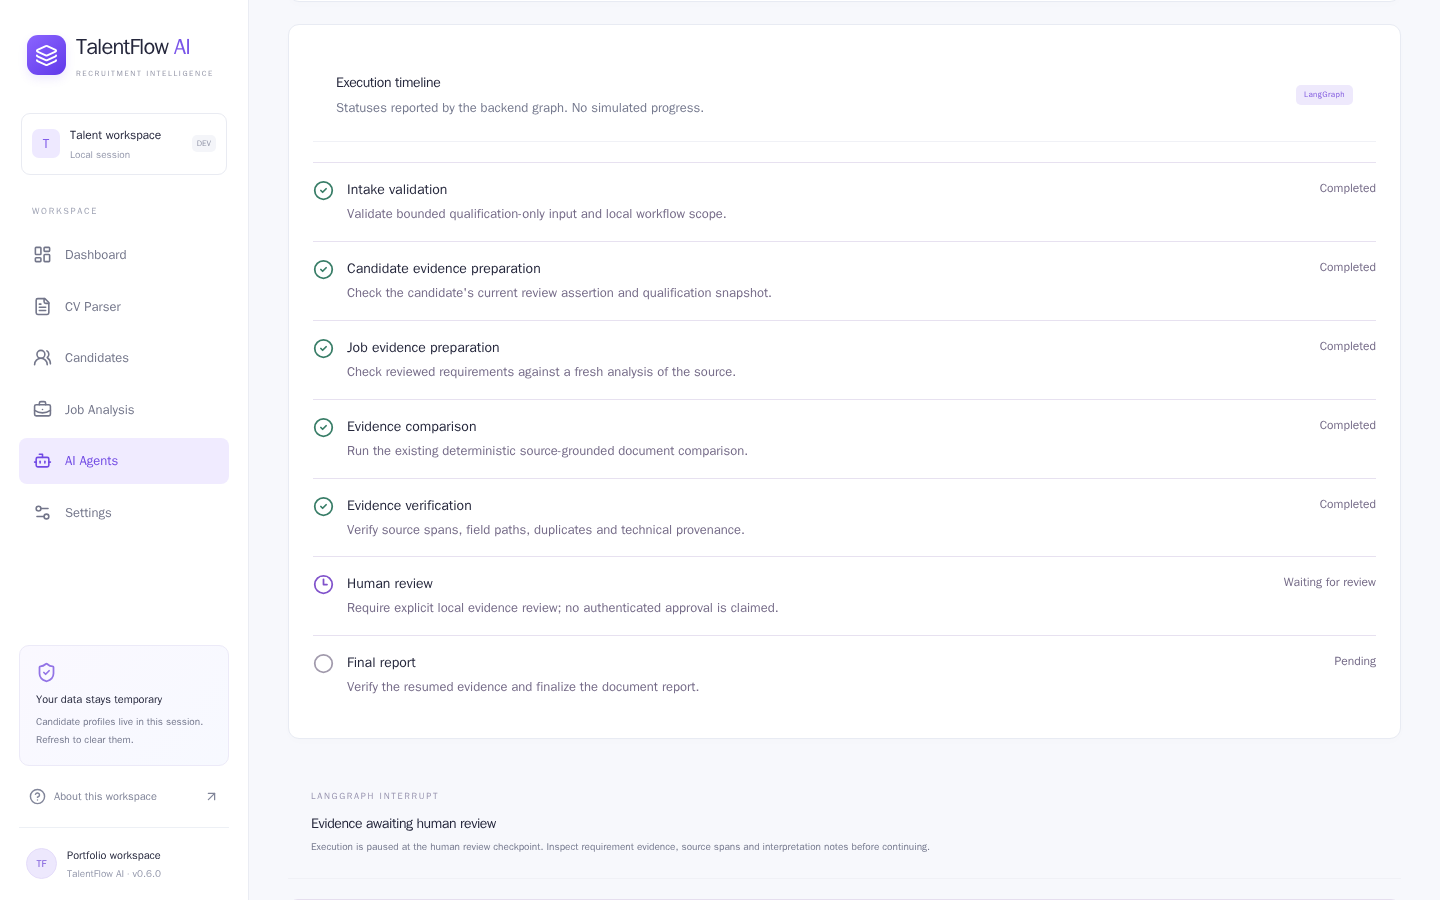
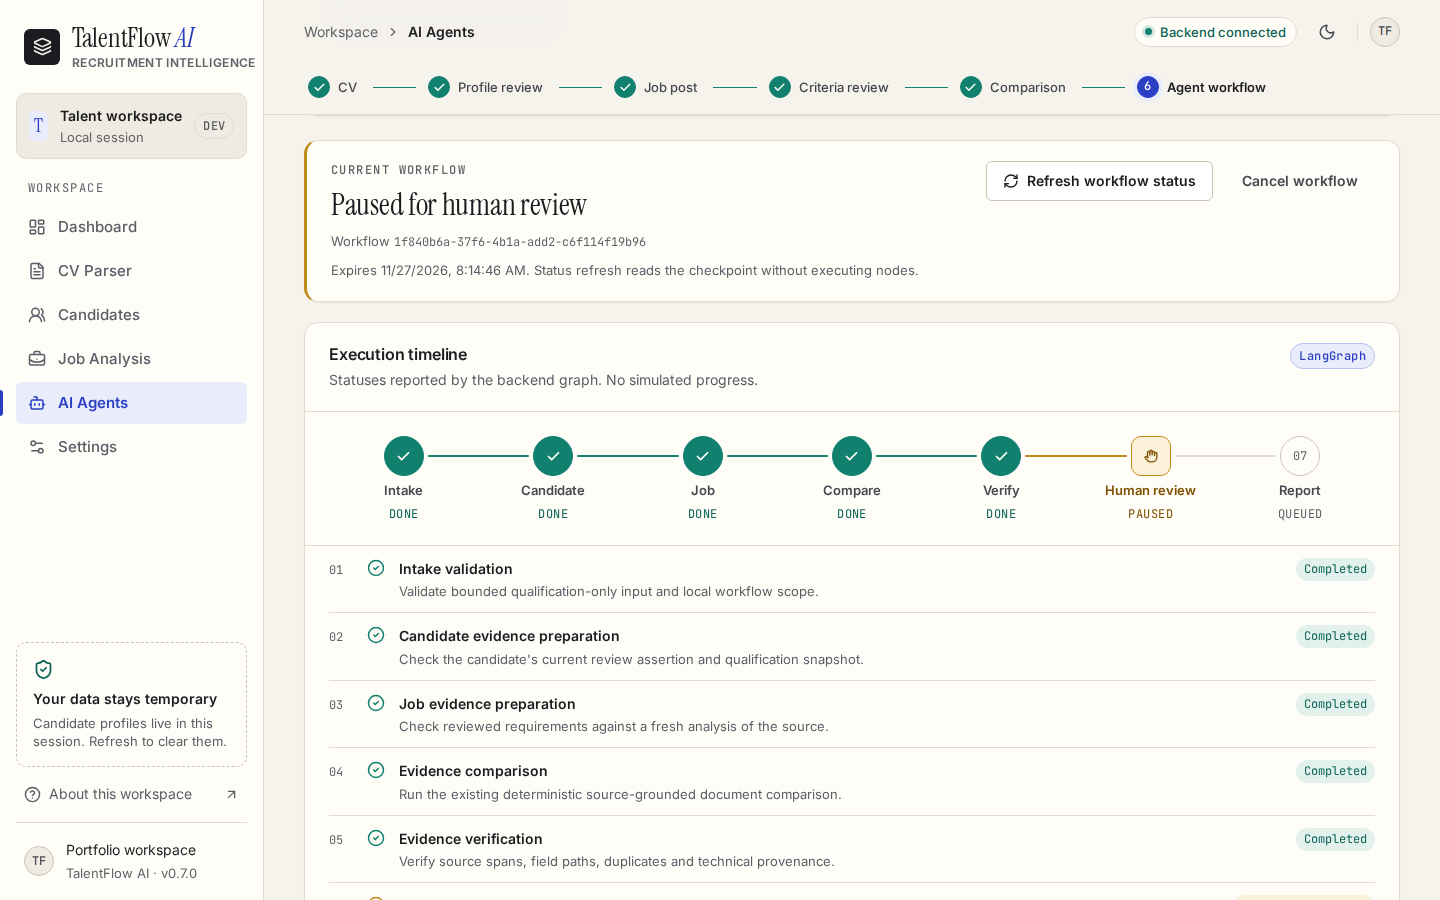
docs: v0.7.0 screenshots, design system and demo mode
- New screenshots: dashboard with demo mode, side-by-side evidence, LangGraph
  paused (light) and completed (dark); each under 300 KB, fictional data only
- README: preview, demo quick start, design system, test counts
- CHANGELOG v0.7.0 entry; CLAUDE.md design-system rules and test notes

diff --git a/README.md b/README.md
@@ -10,13 +10,13 @@ Screening tools often reduce a person to a match score. TalentFlow AI takes the 
 
 ## Preview
 
-All screenshots use fictional documents against the local stack.
+All screenshots use fictional documents against the local stack. Light and dark themes are both supported.
 
-| Dashboard | Job Analysis — evidence checklist |
+| Dashboard with demo mode | Side-by-side evidence |
 |---|---|
-| ![Dashboard with one confirmed fictional candidate](docs/images/dashboard.png) | ![Comparison results: documented, not documented and needs-review counts with the technical evidence overview](docs/images/job-analysis-comparison.png) |
-| **AI Agents — paused for human review** | **AI Agents — final report** |
-| ![LangGraph timeline paused at the human_review interrupt](docs/images/agents-human-review.png) | ![Completed seven-step LangGraph timeline after an explicit review acknowledgment](docs/images/agents-final-report.png) |
+| ![Dashboard hero with the "Try with fictional data" demo, session state and the six-step path](docs/images/dashboard.png) | ![Job clause on the left and CV excerpt on the right, exact spans highlighted from code-point offsets with "chars" badges](docs/images/evidence-side-by-side.png) |
+| **AI Agents — paused for human review** | **AI Agents — final report (dark theme)** |
+| ![Seven-node LangGraph visualization paused at the human_review interrupt](docs/images/agents-human-review.png) | ![Completed seven-node LangGraph workflow after an explicit review acknowledgment, in the dark theme](docs/images/agents-final-report.png) |
 
 ## Architecture
 
@@ -46,7 +46,8 @@ Data flow: **PDF CV** → parsed profile with source evidence → human review a
 - **Real LangGraph interrupt/resume.** A seven-node `StateGraph` pauses at `interrupt()` and continues with `Command(resume=...)` after a human acknowledgment; evidence is verified again before the final report. No simulated progress.
 - **No scores, no automated decisions.** Three statuses only (`documented`, `not_documented`, `needs_review`), with explicit limitations attached to every result.
 - **Local-first and private by default.** Loopback-only ports, Host/Origin checks on every API route, bounded request bodies, no persistence of CVs, no external calls without consent.
-- **Tested end to end.** 681 backend tests and 90 frontend tests, 9 real-browser Chromium workflows, ruff and ESLint, strict TypeScript, and GitHub Actions CI on every push.
+- **Side-by-side evidence view.** The job clause and the CV excerpt sit next to each other, with the exact span highlighted from the API offsets and a `chars a–b` badge; “not documented” is shown as a neutral absence, never as a failure.
+- **Tested end to end.** 681 backend tests and 93 frontend tests, 10 real-browser Chromium workflows, ruff and ESLint, strict TypeScript, and GitHub Actions CI on every push.
 
 ## Quick start
 
@@ -54,13 +55,13 @@ Data flow: **PDF CV** → parsed profile with source evidence → human review a
 docker compose up -d --build --wait
 ```
 
-Open **http://localhost:5173** for the workspace and **http://127.0.0.1:8000/docs** for the API documentation. See [Docker workflow](#docker-workflow-primary) for details and [Run tests on the host](#run-tests-on-the-host-optional) for local checks.
+Open **http://localhost:5173** for the workspace and **http://127.0.0.1:8000/docs** for the API documentation. On the Dashboard, **Try with fictional data** generates a fictional CV and a sample job post in the browser and walks you through the full flow in under a minute; the demo profile still requires your review and confirmation, and nothing is stored. See [Docker workflow](#docker-workflow-primary) for details and [Run tests on the host](#run-tests-on-the-host-optional) for local checks.
 
 Release history and the validation recorded at each phase are in [docs/CHANGELOG.md](docs/CHANGELOG.md).
 
 ## Current status
 
-**Current release: v0.6.0.** **Phases 1 through 5 are implemented:** backend foundation, Docker infrastructure, React workspace, layout-aware French/English CV parsing, source evidence, human review, deterministic job analysis and document comparison, technical-environment provenance, compact evidence results, source-bound excerpts and bounded LangGraph orchestration. Optional CV model extraction requires backend configuration and per-upload consent; job analysis and the graph require no AI credentials. Validation for each phase is recorded in the [changelog](docs/CHANGELOG.md).
+**Current release: v0.7.0.** **Phases 1 through 5 are implemented:** backend foundation, Docker infrastructure, React workspace, layout-aware French/English CV parsing, source evidence, human review, deterministic job analysis and document comparison, technical-environment provenance, compact evidence results, source-bound excerpts and bounded LangGraph orchestration. Optional CV model extraction requires backend configuration and per-upload consent; job analysis and the graph require no AI credentials. Validation for each phase is recorded in the [changelog](docs/CHANGELOG.md).
 
 Implemented:
 
@@ -234,9 +235,11 @@ Review the version changes, rebuild both runtime and test images normally, run c
 
 The existing `frontend/` directory contains a React + TypeScript SPA built by Vite with Tailwind CSS and Lucide icons. `src/App.tsx` owns the shared sidebar/topbar and React Router routes; `pages/Parser.tsx` handles document selection and parsing; `components/Profile.tsx` renders the real candidate contract; `components/ErrorBoundary.tsx` provides recovery from rendering failures. `session.tsx` owns temporary profiles and periodic backend health checks. `types.ts` mirrors the Pydantic candidate and metadata models; `api.ts` handles requests, timeouts, PDF validation, and both structured document errors and FastAPI validation arrays.
 
+**Design system.** All colours, type sizes, spacing, radii, shadows and durations are tokens in `src/theme/tokens.css` (warm-paper light theme, deep-slate dark theme, WCAG AA text contrast); no colour is hard-coded elsewhere. Fonts are self-hosted through `@fontsource` (Instrument Serif, Inter, JetBrains Mono); no CDN is used. Primitives live in `src/components/ui` (Button, Card, Badge, StatusPill, Stepper, EmptyState, Skeleton). The header carries a persistent workflow stepper derived from session state and a theme toggle that follows `prefers-color-scheme` until the user chooses. `prefers-reduced-motion` disables animations.
+
 | Page | Current behavior |
 | --- | --- |
-| Dashboard | Quick actions, backend liveness, available modules, actual session count and recent parsing activity |
+| Dashboard | Product home: hero, fictional demo mode, live session state, six-step path, principles and recent activity |
 | CV Parser | Select/drop one PDF, validate extension/MIME/header and 5 MiB size, submit, show fields and warnings, retry or upload another |
 | Candidates | Successfully parsed profiles in memory, profile detail route, clear session profiles |
 | Job Analysis | Select any session profile, confirm its review, analyze FR/EN text, review source-bound requirements and compare qualification evidence |
@@ -429,7 +432,7 @@ See [agent workflow testing](docs/agent_workflow_testing.md) for actual results,
 - **Lint:** `ruff check app tests *.py` in `backend/` (rules E/F/I/B/UP, `backend/ruff.toml`; dev tools in `backend/requirements-dev.txt`) and `npm run lint` in `frontend/`.
 - **Types and tests:** `npx tsc --noEmit`, `npx vitest run` and `npm run build` in `frontend/`; `pytest` in `backend/`.
 - **CI:** `.github/workflows/ci.yml` runs on pushes and pull requests to `main`: backend (lock-constrained install, ruff, pytest), frontend (Node 22: lint, tsc, vitest, build) and Compose configuration validation. It uses no secrets and deploys nothing.
-- **End-to-end:** nine real-API Chromium scripts in `frontend/e2e/`; see [agent workflow testing](docs/agent_workflow_testing.md).
+- **End-to-end:** ten real-API Chromium scripts in `frontend/e2e/` (including the demo mode); see [agent workflow testing](docs/agent_workflow_testing.md).
 
 ## Roadmap
 

diff --git a/CLAUDE.md b/CLAUDE.md
@@ -2,7 +2,7 @@
 
 Assistant de recrutement local-first fondé sur les preuves documentaires, la revue humaine et la traçabilité.
 React 19 / TypeScript / Vite → FastAPI / Pydantic → services déterministes (PyMuPDF, analyse d'offre FR/EN,
-comparaison par preuves) + orchestration LangGraph locale avec interrupt/resume (Phase 5). Dernier jalon : `v0.6.0` (outillage, CI, durcissement).
+comparaison par preuves) + orchestration LangGraph locale avec interrupt/resume (Phase 5). Dernier jalon : `v0.7.0` (refonte UI : design system, mode démo, vue preuve côte à côte).
 PostgreSQL est disponible en profil Compose optionnel `db` mais **pas encore utilisé** par l'application.
 
 ## Commandes validées sous Windows (Git Bash)
@@ -12,7 +12,7 @@ préfixer avec `export PATH="/c/Program Files/nodejs:$PATH" &&`. Enchaîner les 
 
 ### Backend (Python 3.11, venv `backend/.venv`)
 - Tests : `cd backend && PYTHONDONTWRITEBYTECODE=1 .venv/Scripts/python.exe -m pytest -p no:cacheprovider -q`
-  (référence `v0.6.0` : **681 passés**)
+  (référence `v0.7.0` : **681 passés**)
 - Un fichier : `... -m pytest -p no:cacheprovider -q tests/test_jobs.py`
 - Serveur local : `cd backend && .venv/Scripts/python.exe -m uvicorn app.main:app --reload --port 8000`
 - Lint : `.venv/Scripts/python.exe -m ruff check app tests *.py` (config `backend/ruff.toml`, outils dev dans
@@ -21,7 +21,9 @@ préfixer avec `export PATH="/c/Program Files/nodejs:$PATH" &&`. Enchaîner les 
 
 ### Frontend (`frontend/`)
 - Installation : `npm ci` (le `node_modules` doit être installé avec le Node Windows, pas dans Docker)
-- Tests : `npx vitest run` (référence : **90 passés**, 9 fichiers)
+- Tests : `npx vitest run` (référence : **93 passés**, 10 fichiers). À lancer **seul** (pas enchaîné après le lint) :
+  sous Windows + Node 26, vitest échoue parfois au chargement (« failed to find the current suite ») ; relancer.
+  Machine chargée : `npx vitest run --maxWorkers=2`.
 - Types : `npx tsc --noEmit` (0 erreur attendue, mode strict)
 - Build : `npm run build`
 - Lint : `npm run lint` (ESLint flat config, typescript-eslint, règles react-hooks classiques ; 0 erreur attendue).
@@ -34,7 +36,8 @@ préfixer avec `export PATH="/c/Program Files/nodejs:$PATH" &&`. Enchaîner les 
   Le volume `postgres_data` ne doit jamais être supprimé.
 - Tests backend conteneur : `docker compose -f docker-compose.yml -f compose.test.yaml run --rm backend`
 - Tests frontend conteneur : `docker build --target test -t talentflow-ai-frontend-test:local frontend && docker run --rm talentflow-ai-frontend-test:local npm test`
-- E2E Chromium (9 scripts) : voir `docs/agent_workflow_testing.md` (certains scripts exigent un montage `/fixtures`).
+- E2E Chromium (10 scripts, dont `demo-smoke.mjs`) : voir `docs/agent_workflow_testing.md` (certains scripts exigent un montage
+  `/fixtures` ; `comparison-workflow-smoke.mjs` avec `-e NATIVE_MOUSE=1`).
 - **Interdit sans accord explicite** : `docker compose down --volumes`, tout `prune`, toute suppression de volume.
 
 ## CI
@@ -46,6 +49,14 @@ préfixer avec `export PATH="/c/Program Files/nodejs:$PATH" &&`. Enchaîner les 
 - Toutes les routes `/api/v1` refusent un `Host`/`Origin` non local (403 `local_requests_only`) et limitent le
   corps JSON à 1 MiB ; l'upload CV reste à 5 MiB, les workflows agents à 512 KiB. Les tests utilisent
   `TestClient(app, base_url="http://localhost")` : ne jamais réintroduire `testserver` dans les hôtes autorisés.
+
+## Design system (frontend)
+- Toutes les valeurs (couleurs, tailles, espacements, rayons, ombres, durées) viennent de `src/theme/tokens.css` ;
+  aucune couleur en dur ailleurs. Polices via `@fontsource` uniquement, aucun CDN.
+- `not_documented` est une absence neutre (gris, marqueur en pointillés), jamais rouge ; le rouge est réservé aux erreurs système.
+- Ne jamais changer un nom accessible, label ou texte utilisé par les tests ; les E2E lisent les blockquotes de preuve
+  (le passage surligné doit rester le seul texte de la citation) et les compteurs (valeur finale toujours dans le DOM).
+- Respecter `prefers-reduced-motion` ; le stockage navigateur n'est écrit que sur action explicite (thème).
 
 ## Pièges connus
 - `core.autocrlf=true` sur ce poste ; `.gitattributes` impose LF. Des fixtures sont figées par hash SHA-256 des

diff --git a/docs/CHANGELOG.md b/docs/CHANGELOG.md
@@ -1,7 +1,19 @@
 # Changelog
 
 Detailed delivery history and the validation recorded at each milestone. The [README](../README.md) describes the current state.
-Milestone tags: `v0.5.0` (phases 1–5) and `v0.6.0` (tooling, CI and hardening).
+Milestone tags: `v0.5.0` (phases 1–5), `v0.6.0` (tooling, CI and hardening) and `v0.7.0` (UI redesign).
+
+## UI redesign — v0.7.0
+
+- **Design system:** a single token file (colour, type scale, spacing, radii, shadows, motion), warm-paper light and deep-slate dark themes with AA contrast, self-hosted fonts, and primitives (Button, Card, Badge, StatusPill, Stepper, EmptyState, Skeleton). Legacy colour literals and pixel font sizes were mapped to tokens; the minimum text size is now 12px (mono labels), 13px for secondary text and 14–15px for body text.
+- **Guided shell:** editorial sidebar, sticky header with a six-step workflow stepper derived from session state (it never bypasses a review gate), theme toggle and Settings appearance control, soft page transitions, discreet toasts and skeletons instead of spinners.
+- **Dashboard and demo mode:** product home with session state, path shortcuts and principles. **Try with fictional data** builds a fictional CV PDF (invented name, `example.com`) and a sample job in the browser, parses it through the normal API and opens the profile for mandatory human review. Nothing is stored.
+- **Side-by-side evidence:** the job clause and the CV excerpt are shown next to each other with exact spans highlighted from code-point offsets, a mono `chars a–b` badge and a status bridge. “Not documented” is a neutral absence. Applies to Job Analysis and to AI Agents results.
+- **Living LangGraph view:** seven connected nodes driven by backend statuses; `human_review` pulses while paused and edges fill in sequence after resume. The accessible step list is kept.
+- **Refactor:** `JobAnalysis.tsx` split into sub-components (JSX moved verbatim); `App.tsx` pages already split in v0.6.0.
+- **CI:** now runs on every branch push as well as pull requests.
+
+Actual validation: **681 backend tests**, **93 frontend tests** (including demo mode), ruff, ESLint, strict TypeScript, Vite build and **all ten real-API Chromium workflows** (the nine existing ones plus `demo-smoke.mjs`) passed against the rebuilt Compose stack. No accessible name, label or tested text changed.
 
 ## Tooling, CI and hardening — v0.6.0
 
